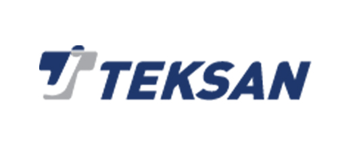
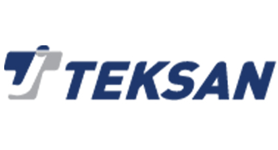
values added
vision and mission added

Changed region(s): [[0.0, 0.2933, 1.0, 0.6667]]

diff --git a/app/[locale]/pages/values/VisionMission.jsx b/app/[locale]/pages/values/VisionMission.jsx
@@ -1,0 +1,53 @@
+import React from "react";
+import visionImage from "@/public/assets/images/vision.jpg";
+import { useTranslations } from "next-intl";
+import Link from "next/link";
+
+const VisionMission = () => {
+  const t = useTranslations("VisionMission");
+  return (
+    <div
+      className="flex flex-col justify-end items-center relative h-screen bg-cover bg-center w-full gap-10 lg:gap-40 xl:gap-80"
+      style={{ backgroundImage: `url(${visionImage.src})` }}>
+      <div className="flex">
+        <span className=" text-blue-950 text-4xl lg:text-5xl font-semibold">
+          {t("header")}
+        </span>
+      </div>
+      <div className="flex flex-col justify-end lg:flex-row items-center lg:justify-around lg:items-end gap-2 lg:gap-8">
+        <div className="relative flex flex-col justify-center items-center w-3/4 lg:w-1/3 p-2  text-white">
+          <div className="bg-black/50 absolute inset-0 z-[1]"></div>
+          <div className="flex flex-col text-center z-10 gap-2 lg:gap-6">
+            <div className="flex flex-col gap-2">
+              <p className="text-lg lg:text-2xl xl:text-3xl font-semibold ">
+                {t("vision")}
+              </p>
+              <text className="text-sm lg:text-base 2xl:text-lg z-99">
+                {t("visionText")}
+              </text>
+            </div>
+            <div className="flex flex-col lg:gap-2">
+              <p className="text-lg lg:text-2xl xl:text-3xl font-semibold">
+                {t("mission")}
+              </p>
+              <text className="text-sm lg:text-base 2xl:text-lg z-99">
+                {t("missionText")}
+              </text>
+            </div>
+          </div>
+        </div>
+
+        <div className="relative flex flex-col justify-center items-center w-3/4 lg:w-1/3 p-2 text-white">
+          <div className="bg-black/50 absolute inset-0 z-[1]"></div>
+          <div className="flex flex-col text-center z-10 ">
+            <text className="text-sm lg:text-base xl:text-xl z-99">
+              {t("text")}
+            </text>
+          </div>
+        </div>
+      </div>
+    </div>
+  );
+};
+
+export default VisionMission;

diff --git a/app/[locale]/components/Partner.jsx b/app/[locale]/components/Partner.jsx
@@ -7,20 +7,23 @@ import kemsan from "@/public/assets/images/kemsan.png";
 const Partner = () => {
   return (
     
-    <div className="flex flex-col gap-2  justify-center items-center">
+    <div className="flex flex-col justify-center items-center">
       <span className='text-3xl font-semibold'>Partners</span>
-        <div className='flex flex-col  mx-5 sm:mx-10 md:mx-16 text-center text-white gap-10 lg:grid-cols-3 lg:grid lg:grid-flow-row lg:gap-5 lg:mx-10 lg:my-2 xl:mx-20 xl:my-1 items-center justify-around'>
+        <div className='flex flex-col items-center mx-5 sm:mx-10 lg:mx-10 gap-[25px] lg:gap-[75px] md:mx-16 text-center text-white  lg:grid-cols-3 lg:grid lg:grid-flow-row   lg:my-2  xl:my-1 justify-around'>
       <Image
       src={teksan}
       alt={"teksan"}
+      layout='responsive'
       />
       <Image
       src={essan}
       alt={"essan"}
+      layout='responsive'
       />
       <Image
       src={kemsan}
       alt={"kemsan"}
+      layout='responsive'
       />
 
     </div>

diff --git a/app/[locale]/components/Panel.jsx b/app/[locale]/components/Panel.jsx
@@ -1,6 +1,7 @@
 "use client";
 import panelImage from "@/public/assets/images/panel.jpeg";
 import { useTranslations } from "next-intl";
+import Link from "next/link";
 
 const Panel = () => {
 
@@ -22,8 +23,8 @@ const Panel = () => {
         <button
           id="about"
           className=" bg-amber-400 rounded-full px-6 py-3 lg:px-8  text-sm z-10 lg:text-base"
-        >
-          {translation("button")}
+        ><Link href="/pages/values"> {translation("button")}</Link>
+         
         </button>
       </div>
     </div>

diff --git a/app/[locale]/components/Navbar.jsx b/app/[locale]/components/Navbar.jsx
@@ -9,6 +9,7 @@ import { usePathname } from "next/navigation";
 import LangSwitcher from "../../../LangSwitcher";
 import { useTranslations } from "next-intl";
 
+
 const Navbar = () => {
   const currentPath = usePathname();
   const links = [

diff --git a/app/[locale]/pages/values/page.jsx b/app/[locale]/pages/values/page.jsx
@@ -1,0 +1,12 @@
+import React from 'react'
+import VisionMission from './VisionMission'
+
+const page = () => {
+  return (
+    <div className='flex'>
+      <VisionMission/>
+    </div>
+  )
+}
+
+export default page
